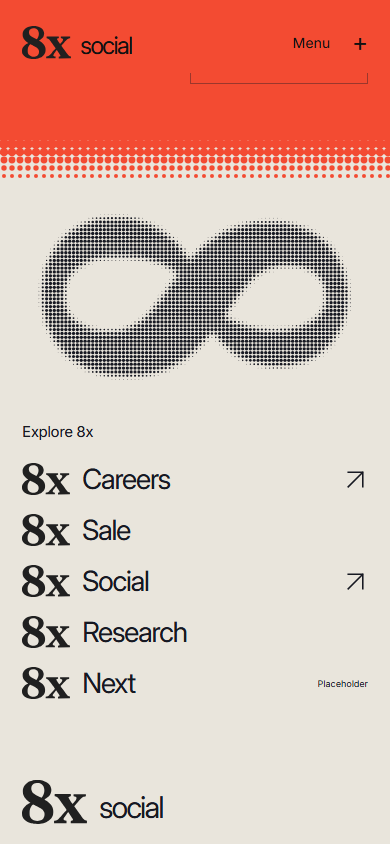
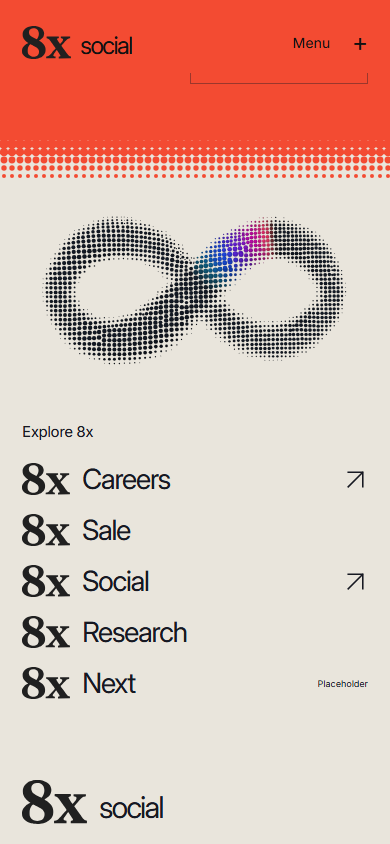
Refine footer infinity with subtle motion and restrained colour current

Changed region(s): [[0.0923, 0.2464, 0.8923, 0.4621]]

diff --git a/components/family-footer.tsx b/components/family-footer.tsx
@@ -4,6 +4,7 @@ import { useEffect, useRef } from 'react';
 import { Arrow } from './icons';
 import { links } from '@/lib/content';
 import mark from '@/lib/footer-mark.json';
+import { createInfinityCurrent } from '@/lib/infinity-current';
 
 const clamp = (x: number) => Math.max(0, Math.min(1, x));
 const ease = (x: number) => { const t = clamp(x); return t * t * t * (t * (t * 6 - 15) + 10); };
@@ -17,10 +18,13 @@ export function FamilyFooter() {
   const root = useRef<HTMLElement>(null), stage = useRef<HTMLDivElement>(null), artwork = useRef<SVGSVGElement>(null);
   const ink = useRef<SVGGElement>(null), depth = useRef<SVGGElement>(null), suffix = useRef<SVGPathElement>(null);
   const solidMask = useRef<SVGLinearGradientElement>(null), printMask = useRef<SVGLinearGradientElement>(null);
+  const currentCanvas = useRef<HTMLCanvasElement>(null), printLayer = useRef<SVGGElement>(null);
   useEffect(() => {
     const journey = root.current!, content = stage.current!, el = artwork.current!, motion = matchMedia('(prefers-reduced-motion: reduce)');
     let span = 0, top = 100, raf = 0, progress = 0, target = 0, last = 0;
     let measured = false;
+    const canvas = currentCanvas.current!, current = createInfinityCurrent(canvas);
+    let visible = false, clock = 0, currentOpacity = 0, lastPaint = -1, scrollDirty = true;
     const draw = () => {
       // Lift the complete silhouette, turn it, then lay it onto the print plane.
       // Every layer shares one transform, so the serif edges never scatter.
@@ -55,20 +59,38 @@ export function FamilyFooter() {
     };
     const tick = (time: number) => {
       raf = 0;
-      if (document.hidden) { last = 0; return; }
-      target = sample();
+      if (document.hidden) { last = 0; journey.dataset.flowing = 'false'; return; }
+      if (scrollDirty) { target = sample(); scrollDirty = false; }
       const dt = last ? Math.min(64, time - last) : 16; last = time;
+      const previousProgress = progress;
       progress = motion.matches ? 1 : mix(progress, target, 1 - Math.exp(-dt / 85));
       if (Math.abs(progress - target) < .0003) progress = target;
-      draw();
+      if (progress !== previousProgress) draw();
       const running = Math.abs(progress - target) >= .0003;
       journey.dataset.running = String(running);
-      if (running) raf = requestAnimationFrame(tick); else last = 0;
+      const revealCurrent = current && progress >= .83 ? 1 : 0;
+      const previousOpacity = currentOpacity;
+      currentOpacity = motion.matches ? Number(revealCurrent) : mix(currentOpacity, Number(revealCurrent), 1 - Math.exp(-dt / 260));
+      if (Math.abs(currentOpacity - Number(revealCurrent)) < .001) currentOpacity = Number(revealCurrent);
+      const flowing = Boolean(current && visible && !motion.matches && currentOpacity > 0);
+      if (flowing) clock += dt / 1000;
+      if (currentOpacity !== previousOpacity) {
+        canvas.style.opacity = String(currentOpacity);
+        printLayer.current!.style.opacity = String(1 - currentOpacity);
+      }
+      // Native scroll remains independent; only the visible current keeps a loop.
+      if (current && currentOpacity > 0 && (motion.matches || time - lastPaint > (innerWidth <= 700 ? 30 : 15))) {
+        current.draw(motion.matches ? 1.6 : clock, !motion.matches); lastPaint = time;
+        canvas.dataset.frame = clock.toFixed(3);
+      }
+      journey.dataset.flowing = String(flowing);
+      if (running || flowing || currentOpacity !== Number(revealCurrent)) raf = requestAnimationFrame(tick); else last = 0;
     };
-    const schedule = () => { if (!raf && !document.hidden) raf = requestAnimationFrame(tick); };
+    const schedule = () => { scrollDirty = true; if (!raf) raf = requestAnimationFrame(tick); };
     const measure = () => {
       top = innerWidth <= 700 ? 82 : 110;
       const stageHeight = content.getBoundingClientRect().height;
+      current?.resize(el.getBoundingClientRect().width);
       span = !motion.matches && stageHeight + top + 20 < innerHeight ? innerHeight * 1.15 : 0;
       journey.style.setProperty('--family-travel', `${span}px`);
       journey.style.setProperty('--family-height', `${stageHeight}px`);
@@ -78,16 +100,18 @@ export function FamilyFooter() {
       draw(); journey.dataset.ready = 'true'; schedule();
     };
     const observer = new ResizeObserver(measure); observer.observe(el); observer.observe(content);
+    const visibility = new IntersectionObserver(([entry]) => { visible = entry.isIntersecting; schedule(); }, { threshold: 0 });
+    visibility.observe(el);
     measure(); window.addEventListener('scroll', schedule, { passive: true }); window.addEventListener('resize', measure);
     motion.addEventListener('change', measure); document.addEventListener('visibilitychange', schedule);
-    return () => { cancelAnimationFrame(raf); observer.disconnect(); window.removeEventListener('scroll', schedule); window.removeEventListener('resize', measure); motion.removeEventListener('change', measure); document.removeEventListener('visibilitychange', schedule); };
+    return () => { cancelAnimationFrame(raf); observer.disconnect(); visibility.disconnect(); window.removeEventListener('scroll', schedule); window.removeEventListener('resize', measure); motion.removeEventListener('change', measure); document.removeEventListener('visibilitychange', schedule); };
   }, []);
 
   return <div className="family-ending">
     <div className="family-seam" aria-hidden="true"><svg width="100%" height="72"><defs><pattern id="family-edge" width="8" height="72" patternUnits="userSpaceOnUse">{Array.from({ length: 9 }, (_, y) => <circle key={y} cx="4" cy={y * 8 + 2} r={5.8 * Math.pow(1 - y / 9, 1.3)} fill="#f34b32" />)}</pattern></defs><rect width="100%" height="72" fill="url(#family-edge)" /></svg></div>
     <section id="family" className="family-journey" ref={root} aria-label="Explore the 8x family" data-running="false">
       <div className="family-stage page-width" ref={stage}>
-        <div className="family-art" role="img" aria-label="The original 8 turns horizontally, then a print reveal changes its ink to dots as you scroll.">
+        <div className="family-art" role="img" aria-label="The original 8 turns into a dotted infinity, with a continuous orange, violet and cyan current flowing around its loops.">
           <img className="family-fallback" src="/footer/infinity.svg" alt="" width="900" height="600" />
           <svg ref={artwork} viewBox="0 0 900 600" fill="#171922" aria-hidden="true">
             <defs>
@@ -98,8 +122,9 @@ export function FamilyFooter() {
             </defs>
             <g mask="url(#family-solid-mask)"><g ref={depth} opacity="0">{[.08, .16, .24].map((opacity, i) => <path key={i} d={mark.eight} opacity={opacity} />)}</g><g ref={ink}><path d={mark.eight} /></g></g>
             <path ref={suffix} d={mark.x} transform="translate(280 300) scale(1.64) translate(-93 -132)" />
-            <g className="family-print-layer" mask="url(#family-print-mask)">{mark.dots.map(([a,b,r], i) => <circle key={i} cx={450-(b-132)*3} cy={300+(a-93)*2.2} r={r} />)}</g>
+            <g ref={printLayer} style={{opacity: 1}} className="family-print-layer" mask="url(#family-print-mask)">{mark.dots.map(([a,b,r], i) => <circle key={i} cx={450-(b-132)*3} cy={300+(a-93)*2.2} r={r} />)}</g>
           </svg>
+          <canvas ref={currentCanvas} className="family-current" width="900" height="600" aria-hidden="true" />
         </div>
         <div className="family-directory"><h2>Explore 8x</h2><ul>{products.map(product => <li key={product.name}>
           {product.href ? <a href={product.href} aria-label={'8x ' + product.name}><img src="/8x.svg" alt="8x" width="386" height="264" /><span>{product.name}</span><Arrow /></a>

diff --git a/tests/family-footer.spec.ts b/tests/family-footer.spec.ts
@@ -23,12 +23,16 @@ test('scroll reveals a real transformation, stable products and a separate stone
     if (name === 'original') productY = bounds!.y;
     else expect(Math.abs(bounds!.y - productY)).toBeLessThan(1);
     images.push(await page.locator('.family-art>svg').evaluate(el => el.outerHTML));
-    await page.screenshot({ path: `docs/qa/footer-v3-${name}.png` });
+    if (name === 'infinity') await expect(page.locator('.family-current')).toHaveCSS('opacity', '1');
+    await page.screenshot({ path: `docs/qa/footer-current-${name}.png` });
   }
   expect(new Set(images).size).toBe(5);
   await expect(journey).toHaveAttribute('data-running', 'false');
   await position(page, .5);
-  expect(await page.locator('.family-art>svg').evaluate(el => el.outerHTML)).toBe(images[2]);
+  await expect(page.locator('.family-current')).toHaveCSS('opacity', '0');
+  // CSSOM may normalize the opacity style's whitespace after the crossfade.
+  const returned = await page.locator('.family-art>svg').evaluate(el => el.outerHTML);
+  expect(returned.replace(/style="[^"]*"/g,'') === images[2].replace(/style="[^"]*"/g,'')).toBe(true);
   await page.locator('#contact').scrollIntoViewIfNeeded();
   await expect(page.getByRole('contentinfo', { name: '8x Social footer' })).toBeVisible();
   await expect(page.locator('#contact').getByRole('link', { name: 'Contact', exact: true })).toHaveAttribute('href', 'https://www.8x.social/en/book-call');
@@ -41,7 +45,7 @@ test('scroll reveals a real transformation, stable products and a separate stone
   expect(errors).toEqual([]);
 });
 
-test('scroll animation waits at rest and returns to the original mark when scrolling back', async ({ page }) => {
+test('entrance waits at rest; settled dots move continuously without moving products', async ({ page }) => {
   await page.goto('/#family');
   const root = page.locator('#family');
   await expect(root).toHaveAttribute('data-ready', 'true');
@@ -51,14 +55,55 @@ test('scroll animation waits at rest and returns to the original mark when scrol
   await page.waitForTimeout(500);
   expect(await page.locator('.family-art>svg').evaluate(el => el.outerHTML)).toBe(frame);
   await position(page, .84); await expect(root).toHaveAttribute('data-phase', 'settled');
-  const settled = await page.locator('.family-art>svg').evaluate(el => el.outerHTML);
+  await expect(root).toHaveAttribute('data-flowing', 'true');
+  await expect(page.locator('.family-current')).toHaveCSS('opacity', '1');
+  const product = await page.locator('.family-directory').boundingBox();
+  const pixels = () => page.locator('.family-current').evaluate((canvas: HTMLCanvasElement) => { const data=canvas.getContext('2d')!.getImageData(0, 0, canvas.width, canvas.height).data; const sampled:number[]=[]; for(let i=0;i<data.length;i+=64) sampled.push(data[i],data[i+1],data[i+2],data[i+3]); return sampled; });
+  const first = await pixels();
+  await page.screenshot({path:'docs/qa/footer-current-flow-a.png'});
+  await page.waitForTimeout(1800);
+  const second = await pixels();
+  let coloured = 0, changed = 0, moved = 0, opaque = 0;
+  for(let i=0;i<first.length;i+=4) {
+    if (second[i+3]>180) opaque++;
+    if (second[i+3]>180 && Math.max(second[i],second[i+1],second[i+2])-Math.min(second[i],second[i+1],second[i+2])>70) coloured++;
+    if (Math.abs(first[i]-second[i])+Math.abs(first[i+1]-second[i+1])+Math.abs(first[i+2]-second[i+2])>90) changed++;
+    if (Math.abs(first[i+3]-second[i+3])>100) moved++;
+  }
+  // A small moving accent, never an all-over rainbow.
+  expect(coloured).toBeGreaterThan(30);
+  expect(coloured / opaque).toBeLessThan(.18);
+  expect(changed).toBeGreaterThan(100);
+  expect(moved).toBeGreaterThan(60);
+  expect(await page.locator('.family-directory').boundingBox()).toEqual(product);
+  await page.screenshot({path:'docs/qa/footer-current-flow-b.png'});
   await position(page, 1); await expect(root).toHaveAttribute('data-phase', 'settled');
-  // The last reading interval holds the approved print, without late sinking.
-  expect(await page.locator('.family-art>svg').evaluate(el => el.outerHTML)).toBe(settled);
   await position(page, 0); await expect(root).toHaveAttribute('data-phase', 'original');
+  await expect(root).toHaveAttribute('data-flowing', 'false');
+  await expect(page.locator('.family-current')).toHaveCSS('opacity', '0');
 });
 
-test('layered print keeps every dot fixed and finishes at the bottom of a tall window', async ({ page }) => {
+test('current stops offscreen and freezes to a colourful still for reduced motion', async ({page}) => {
+  await page.goto('/#family'); await position(page,.94);
+  const root=page.locator('#family'), canvas=page.locator('.family-current');
+  await expect(root).toHaveAttribute('data-flowing','true');
+  await page.emulateMedia({reducedMotion:'reduce'});
+  await expect(root).toHaveAttribute('data-flowing','false');
+  await expect(canvas).toHaveCSS('opacity','1');
+  const still=await canvas.evaluate((el:HTMLCanvasElement)=>el.toDataURL());
+  await page.waitForTimeout(400);
+  expect(await canvas.evaluate((el:HTMLCanvasElement)=>el.toDataURL())).toBe(still);
+  await page.emulateMedia({reducedMotion:'no-preference'});
+  await position(page,.94); await expect(root).toHaveAttribute('data-flowing','true');
+  await page.evaluate(()=>scrollTo({top:0,behavior:'instant'}));
+  await expect(root).toHaveAttribute('data-flowing','false');
+  await expect(root).toHaveAttribute('data-running','false');
+  const stopped=await canvas.getAttribute('data-frame');
+  await page.waitForTimeout(400);
+  expect(await canvas.getAttribute('data-frame')).toBe(stopped);
+});
+
+test('entrance print geometry stays stable and finishes at the bottom of a tall window', async ({ page }) => {
   await page.setViewportSize({width:1226,height:1302}); await page.goto('/#family');
   const root=page.locator('#family'); await expect(root).toHaveAttribute('data-ready','true');
   const dots=page.locator('.family-print-layer');

diff --git a/lib/infinity-current.ts b/lib/infinity-current.ts
@@ -1,0 +1,83 @@
+import reference from './current-reference.json';
+
+// Dot positions and radii are measured from the approved artwork. A restrained
+// displacement field keeps its silhouette intact while a small pigment trace
+// travels along the loop. No point-to-point shuffling or disappearing dots.
+const TAU=Math.PI*2;
+const wrap=(v:number,n:number)=>((v%n)+n)%n;
+const clamp=(v:number)=>Math.max(0,Math.min(1,v));
+const smooth=(v:number)=>{const t=clamp(v);return t*t*(3-2*t);};
+const palette=[[0,255,80,18],[.12,255,52,100],[.28,210,5,173],[.46,108,26,231],[.64,19,78,243],[.83,0,186,246],[1,18,24,34]];
+const colours=Array.from({length:512},(_,i)=>{
+  // One small highlight occupies 12% of the loop; the rest stays carbon.
+  const tail=i/511,p=Math.min(1,tail/.12);let j=0;
+  while(j<palette.length-2&&p>palette[j+1][0])j++;
+  const a=palette[j],b=palette[j+1],t=smooth((p-a[0])/(b[0]-a[0]));
+  const strength=smooth(tail/.018)*(1-smooth((tail-.07)/.05))*.82;
+  return [18,24,34].map((base,k)=>base+(a[k+1]+(b[k+1]-a[k+1])*t-base)*strength);
+});
+const curves=[
+  [[449,278],[585,98],[800,105],[800,274]],
+  [[800,274],[800,440],[590,452],[449,278]],
+  [[449,278],[310,90],[110,78],[103,276]],
+  [[103,276],[98,450],[300,470],[449,278]],
+];
+type Dot={x:number;y:number;r:number;u:number;v:number;nx:number;ny:number};
+function makeSurface():Dot[] {
+  const path=curves.flatMap((c,segment)=>Array.from({length:180},(_,i)=> {
+    const t=i/180,q=1-t;
+    const x=q**3*c[0][0]+3*q*q*t*c[1][0]+3*q*t*t*c[2][0]+t**3*c[3][0];
+    const y=q**3*c[0][1]+3*q*q*t*c[1][1]+3*q*t*t*c[2][1]+t**3*c[3][1];
+    const dx=3*q*q*(c[1][0]-c[0][0])+6*q*t*(c[2][0]-c[1][0])+3*t*t*(c[3][0]-c[2][0]);
+    const dy=3*q*q*(c[1][1]-c[0][1])+6*q*t*(c[2][1]-c[1][1])+3*t*t*(c[3][1]-c[2][1]);
+    const len=Math.hypot(dx,dy);
+    return {x,y,nx:-dy/len,ny:dx/len,u:(segment+t)/4};
+  }));
+  const dots:Dot[]=[];
+  for(const [x,y,r] of reference) {
+    let best=Infinity,nearest=path[0];
+    for(const p of path) {
+      const distance=(x-p.x)**2+(y-p.y)**2;
+      if(distance<best){best=distance;nearest=p;}
+    }
+    const v=(x-nearest.x)*nearest.nx+(y-nearest.y)*nearest.ny;
+    dots.push({x,y,r,u:nearest.u,v,nx:nearest.nx,ny:nearest.ny});
+  }
+  return dots;
+}
+const rgb=(colour:number[],factor=1)=>`rgb(${colour.map(v=>Math.round(Math.min(255,v*factor))).join(',')})`;
+
+export function createInfinityCurrent(canvas:HTMLCanvasElement) {
+  const ctx=canvas.getContext('2d',{alpha:true});if(!ctx)return null;
+  const dots=makeSurface();let scale=1;
+  return {
+    resize(width:number) {
+      canvas.width=Math.round(width*Math.min(window.devicePixelRatio||1,1.75));
+      canvas.height=Math.round(canvas.width*2/3);scale=canvas.width/900;
+    },
+    draw(seconds:number,motion:boolean) {
+      ctx.setTransform(scale,0,0,scale,0,0);ctx.clearRect(0,0,900,600);
+      const time=motion?seconds:0;
+      const breath=Math.sin(time*TAU/14)*.001;
+      for(const dot of dots) {
+          const phase=dot.u,wave=Math.sin(TAU*(phase*2-time/18));
+          const drift=Math.sin(TAU*(phase-time/16))*.55;
+          const x=449+(dot.x-449)*(1+breath)-dot.ny*drift;
+          const y=278+(dot.y-278)*(1+breath)+dot.nx*drift-wave*.25;
+          const r=dot.r*(1+wave*.008);
+          // A smooth current crosses the sampled surface; colour depends on
+          // continuous path position, not row indices or rectangular regions.
+          const tail=wrap(.12+time/40-phase,1),pigmentColour=colours[Math.min(511,Math.floor(tail*511))];
+          const light=.45+.55*Math.exp(-Math.pow((dot.v+8)/66,2));
+          const colour=pigmentColour.map(c=>c*light);
+          ctx.globalAlpha=.1;ctx.fillStyle='#171922';
+          ctx.beginPath();ctx.arc(x+.5,y+1.05,r,0,TAU);ctx.fill();
+          ctx.globalAlpha=1;
+          const pigment=ctx.createRadialGradient(x-r*.3,y-r*.35,r*.05,x,y,r*1.2);
+          pigment.addColorStop(0,rgb(colour,1.13));pigment.addColorStop(.5,rgb(colour));pigment.addColorStop(1,rgb(colour,.8));
+          ctx.fillStyle=pigment;ctx.beginPath();ctx.arc(x,y,r,0,TAU);ctx.fill();
+      }
+      ctx.globalAlpha=1;
+    },
+  };
+}

diff --git a/app/family-footer.css b/app/family-footer.css
@@ -4,6 +4,7 @@
 .family-stage{display:grid;grid-template-columns:minmax(0,1.9fr) minmax(0,1fr);gap:7%;align-items:center;padding-block:24px 50px}
 .family-journey[data-pinned=true] .family-stage{position:sticky;top:var(--family-top)}
 .family-art{position:relative;aspect-ratio:3/2;width:100%}
+.family-current{position:absolute;inset:0;width:100%;height:100%;display:block;opacity:0;pointer-events:none}
 .family-art>svg,.family-fallback{position:absolute;inset:0;width:100%;height:100%;display:block}.family-art>svg{opacity:0}
 .family-journey[data-ready=true] .family-art>svg{opacity:1}.family-journey[data-ready=true] .family-fallback{visibility:hidden}
 .family-directory h2{font-size:18px;font-weight:450;letter-spacing:-.025em;line-height:1.4;margin:0 0 32px}

diff --git a/scripts/sample-current-reference.py b/scripts/sample-current-reference.py
@@ -1,0 +1,25 @@
+"""Measure the approved board's dot centres, sizes and colours; never edit it."""
+import json
+from pathlib import Path
+import cv2
+import numpy as np
+from skimage.feature import peak_local_max
+
+root = Path(__file__).resolve().parents[1]
+source = root / 'design/footer-color-current-v1/01-color-sequence.png'
+image = cv2.cvtColor(cv2.imread(str(source)), cv2.COLOR_BGR2RGB)
+crop = image[140:580, 145:1025]
+rgb = crop.astype(float)
+ink = ((rgb.mean(axis=2) < 175) | ((rgb.max(axis=2)-rgb.min(axis=2)) > 65)).astype('uint8')
+distance = cv2.distanceTransform(ink, cv2.DIST_L2, 5)
+centres = peak_local_max(distance, min_distance=3, threshold_abs=1, exclude_border=False)
+dots = []
+for cy, cx in centres:
+    radius = max(.65, float(distance[cy,cx])-.25)
+    if radius > 11: continue
+    extent = max(1,int(radius*.45))
+    colour = np.median(crop[max(0,cy-extent):cy+extent+1,max(0,cx-extent):cx+extent+1].reshape(-1,3),axis=0)
+    # The board's actual artwork occupies x=145..1025, y=140..580.
+    dots.append([round(40+cx*.93,3), round(84+cy*.93,3), round(radius*.93,3), *[int(v) for v in colour]])
+(root/'lib/current-reference.json').write_text(json.dumps(dots,separators=(',',':')))
+print(json.dumps({'dots':len(dots),'source':str(source)}))

diff --git a/docs/FOOTER.md b/docs/FOOTER.md
@@ -1,5 +1,17 @@
 # Layered stone family ending — September 17, 2026
 
+## Current revision: small, slow colour current
+
+This section supersedes the stationary-endpoint descriptions below. The user selected `design/footer-color-current-v1`, then rejected a fixed-grid implementation, a generic ribbon, and excessive motion/colour. Latest direction: subtle movement and just a small colour trace. Review at http://localhost:3904/?v=subtle-current-2#family and scroll down.
+
+The existing original-SVG lift/turn/print entrance remains intact. At 83% progress it crossfades into a canvas surface based on 1,452 dot positions and radii measured from the approved board. The colour accent occupies at most 12% of the loop's path, softly blends into carbon, and circles in 40 seconds. Dot drift is bounded to 0.55 SVG units, with 0.1% breathing over 14 seconds and a 0.25-unit depth wave. Dots do not shuffle between positions, blink or disappear. Radial shading gives each dot shallow depth. This is a code-rendered interpretation of the artwork, not an exact reproduction or an embedded screenshot.
+
+`lib/infinity-current.ts` owns the surface renderer. The visible endpoint has its own clock; it stops offscreen and when the document is hidden. Reduced motion shows a still accent; no-JavaScript retains the black SVG fallback. Canvas resolution caps at 1.75 DPR and mobile paints at roughly 30 fps. Scroll reversal removes the canvas and restores the original layered entrance. Products and links remain stationary. No new runtime dependencies.
+
+Final production build/TypeScript and all five targeted footer tests pass. Earlier full-suite run passed 22 tests. Tests verify a restrained coloured pixel fraction, visible but bounded surface movement, stationary products, reverse, reduced motion, offscreen pause, mobile, tall windows and no-script fallback. QA: `docs/qa/footer-current-*.png`. Visual approval is pending. Rollback baseline: `c797c0e`.
+
+## Historical v3 baseline
+
 The first orange, entrance-timed footer was rejected: the user saw it already settled and could not find a real footer. The subsequent point-morph version was also rejected. The user requested a generated sequence and suggested layered motion; see design/footer-layered-v3. The user now likes the final v3 dotted mark and responsive result. Its refined motion awaits review. The current layered revision uses warm stone (#e9e5dc), connected to the original orange map by a narrow raster seam. The map's palette, geometry and density are unchanged. Review at http://localhost:3904/?v=layered-finish-4#family, then scroll down.
 
 ## Sequence and layout

diff --git a/AGENTS.md b/AGENTS.md
@@ -1,4 +1,5 @@
 # 8x Social Minimal
+Latest footer correction (September 17): the coloured-current board is the visual reference, but broad rainbow coverage and rapid dot movement were explicitly rejected. Current endpoint uses 1,452 dot positions measured from that board, subpixel breathing/drift, and one small colour accent travelling in 40 seconds. Most dots stay carbon. Preserve original SVG entrance, stone surface, stationary directory and semantic footer. This implementation is pending user review; see docs/FOOTER.md. This supersedes older stationary-endpoint and future-work descriptions below.
 This is the fresh minimal project, separate from ../8x-social. Latest user requests govern; ignore parent Conductor/Open form instructions.
 Read design/CURRENT-DIRECTION.md and README.md. The approved build scope is the carbon hero, continuous real-creator-content sequence, stone Day-to-day, Dot Reach, interactive comparison and original ORANGE map on the main homepage. Each video section uses distinct original-site creators. Earlier partner-feedback layouts were rejected, not the underlying business content. Consult docs/CONTENT-AUDIT.md before designing later sections. The latest user explicitly chose the map next; preserve its original geometry and light dot density. The later 8-to-infinity product family ending remains future work.
 Latest footer revision supersedes the deferral above: the user rejected the orange timed reveal. The ending is now warm stone, with a bounded native-scroll 8-to-dotted-infinity sequence, stationary product directory and a real contact/legal footer. Read docs/FOOTER.md. Earlier decorative motion is quiet; media and functional controls remain. 8x Next is a placeholder, and unverified products have no links. The later v2 point morph was also rejected. Current v3 is a layered solid SVG turn and masked, stationary halftone reveal based on design/footer-layered-v3. The 1920×1080 hero now shows the full portrait frame. This implementation awaits user visual review.

diff --git a/design/footer-color-current-v1/README.md b/design/footer-color-current-v1/README.md
@@ -1,0 +1,9 @@
+# Colour current — proposed dotted infinity motion
+
+Update: the user selected this board. Subsequent broad rainbow and fast particle interpretations were rejected. The live implementation now uses a short, slow colour trace over the board's sampled dot arrangement, following the latest request for only a speck of colour and subtle movement. See ../../docs/FOOTER.md. The board remains an art-direction reference, not a claim of exact runtime fidelity; latest implementation awaits review.
+
+The user found the monochrome living-infinity proposal too bland and explicitly requested vibrant colour streaming through the dots after conversion. This supersedes the monochrome-only constraint for the footer artwork, not the surrounding site palette.
+
+`01-color-sequence.png` is a built-in generated storyboard. Exact prompt is saved in `prompt.json`. Orange/coral leads a magenta, violet, cobalt and cyan current around both loops and through the crossover. The underlying silhouette remains recognizable, with carbon intervals, subtle breathing and shallow depth. The page background, typography and product list stay stationary and neutral.
+
+Four frames illustrate dots formed, current crossing, full flow and continuous circulation. Diagram arrows, title, labels and separating rule belong to the board only. This is a still concept, not a video or live implementation. Timing, displacement and performance must be verified in the live build if selected. Reduced motion and offscreen pause remain required. No live code changed for this proposal.

diff --git a/docs/ASSETS.md b/docs/ASSETS.md
@@ -1,5 +1,7 @@
 # Asset provenance
 
+- `lib/current-reference.json`: 1,452 dot centres, radii and sampled RGB values measured from the main infinity artwork in the generated `design/footer-color-current-v1/01-color-sequence.png`. `scripts/sample-current-reference.py` performs measurement using Python, OpenCV, NumPy and scikit-image; it does not modify the source image. The runtime uses positions/radii and its own restrained animated pigment. Those Python libraries are regeneration-only, not web dependencies. The original SVG entrance and no-script fallback remain separate assets.
+
 - `lib/footer-mark.json` and `public/footer/infinity.svg`: deterministic code-native derivatives of the original `public/8x.svg`, built with `node scripts/build-footer-mark.mjs`. The solid entrance preserves the actual mark. Its horizontally rotated 8 is sampled into 2,288 stationary dots for a layered print reveal. No generated image is used at runtime; generated v1 and v3 concept boards are art-direction reference only.
 
 - `public/reach/atlas.json`, `atlas-fallback.svg`, `coverage.json` and `lib/reach-markets.json`: unchanged copies from the existing `../8x-social` project, imported 2026-09-17. These are the original lighter-density map assets, not the rejected dense experiment. SHA-256 compared against all four source files. Original coverage metadata retains the inherited 61-country display and 51 explicitly listed/highlighted markets; no additional countries or claims were invented during this port.

diff --git a/design/CURRENT-DIRECTION.md b/design/CURRENT-DIRECTION.md
@@ -1,5 +1,9 @@
 # Current design direction
 
+## Latest: restrained colour current
+
+The colour-current storyboard is the visual target. User rejected the fixed-grid colour pass, a generic narrow ribbon, then excessive speed and rainbow coverage. Latest request is subtle motion and only a speck of colour. The endpoint now uses the board's sampled dot positions/radii, tiny coherent drift (under one SVG unit) and 0.1% breathing. One accent spans 12% of the path and travels in 40 seconds; most dots stay carbon. No point shuffling, blinking or whole-mark rotation at rest. The original layered SVG entrance remains. Implementation awaits user review; do not call it an exact match or approved. See docs/FOOTER.md.
+
 ## Latest: approved endpoint, refined motion and circle correction
 
 The user likes the v3 dotted footer endpoint and viewport result and asked to bring it alive with layered motion. Preserve the final geometry, palette and directory. The refined sequence lifts three shallow layers beneath the original solid mark, turns it as a coherent silhouette, compresses the layers, then prints the stationary dots. The last 17% of travel holds the finished mark. New choreography awaits review; the settled visual is approved. The orange hero circle was separately flagged for spilling through the faded shoulders: it is now smaller, inset behind the faces, and fades with the whole composition rather than behind transparent clothing. No new asset or dependency.

diff --git a/design/footer-living-infinity-v1/README.md b/design/footer-living-infinity-v1/README.md
@@ -1,0 +1,7 @@
+# Living infinity — motion concept
+
+The user clarified that the dotted endpoint itself must stay alive: moving dots, breathing and layered depth. This supersedes the prior assumption that the final halftone should remain static. Preserve the approved stone footer, product directory and recognizable horizontal 8 silhouette.
+
+`01-motion-sequence.png` is a built-in image-generation concept, not a runtime implementation or video. `prompt.json` records the exact prompt and reference. The generated board illustrates a six-second seamless cycle: left loop lifts, a crest passes through the crossover, right loop lifts, return. Dots circulate around both loops; local size, contrast and shallow layer offsets make the crest readable. The directory stays still. Arrows, timings, captions and board divider are explanatory annotations, not proposed site UI.
+
+For implementation, retain recognizable negative spaces and avoid a scattered particle cloud. Aim for small bounded displacement, a subtle breathing envelope and smoothly connected loop motion. Actual timing and travel distances require live tuning; a still board cannot prove smooth motion. Pause offscreen/hidden and provide a static reduced-motion endpoint. The user asked to see the sequence first; live code remains at c797c0e in this turn.

diff --git a/README.md b/README.md
@@ -1,5 +1,7 @@
 # 8x Social Minimal
 
+Latest footer update: the original layered SVG entrance now leads into a mostly carbon dotted infinity with a small, slow colour trace and subpixel breathing. It stops offscreen and respects reduced motion. The latest implementation awaits visual review; see `docs/FOOTER.md` for the current specification, validation and rollback point.
+
 The new minimal 8x landing page, built separately from the original `8x-social` project. The homepage includes the carbon hero, continuous creator-content sequence, stone Day-to-day, Dot Reach, an interactive comparison, the original orange Reach Atlas and a stone product-family/contact footer. The stone surface warms into orange as the map heading arrives, without a divider or extra map scroll pin. Five distinct original-site creators appear across the video sections. The ending holds the original 8 through a scroll-driven layered SVG turn and halftone print reveal; earlier decorative effects are static.
 
 ## Run
